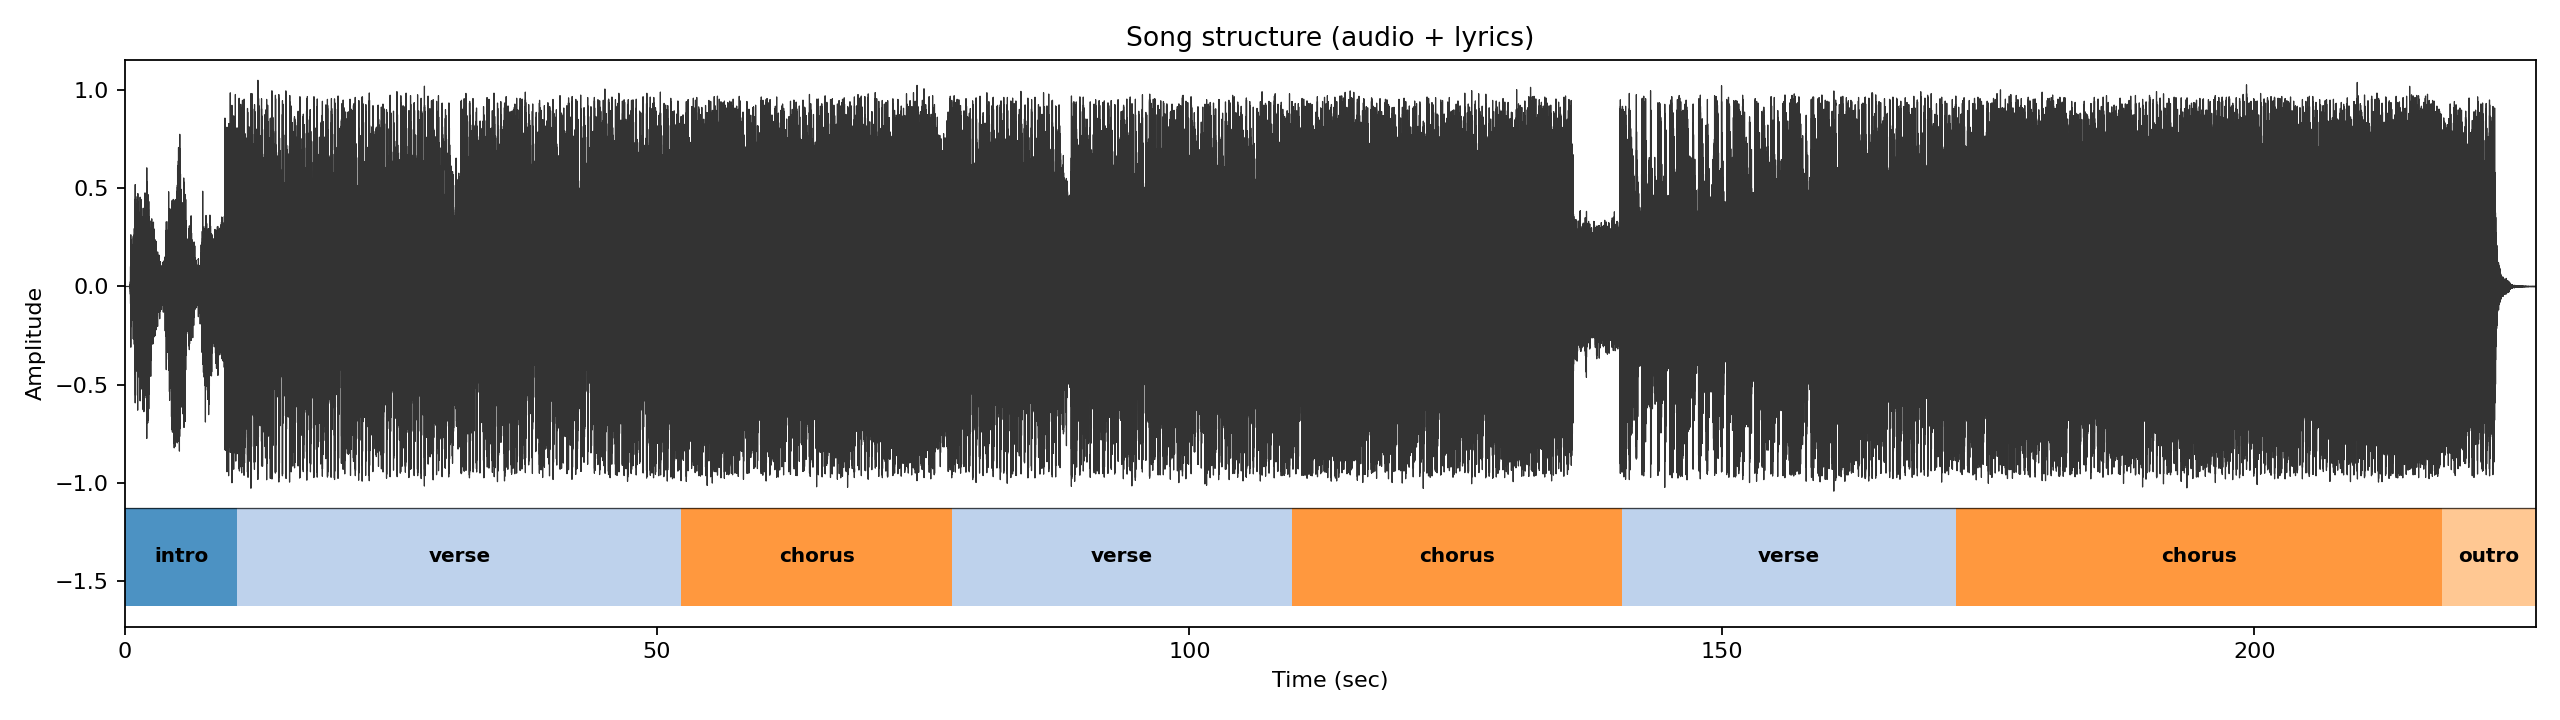
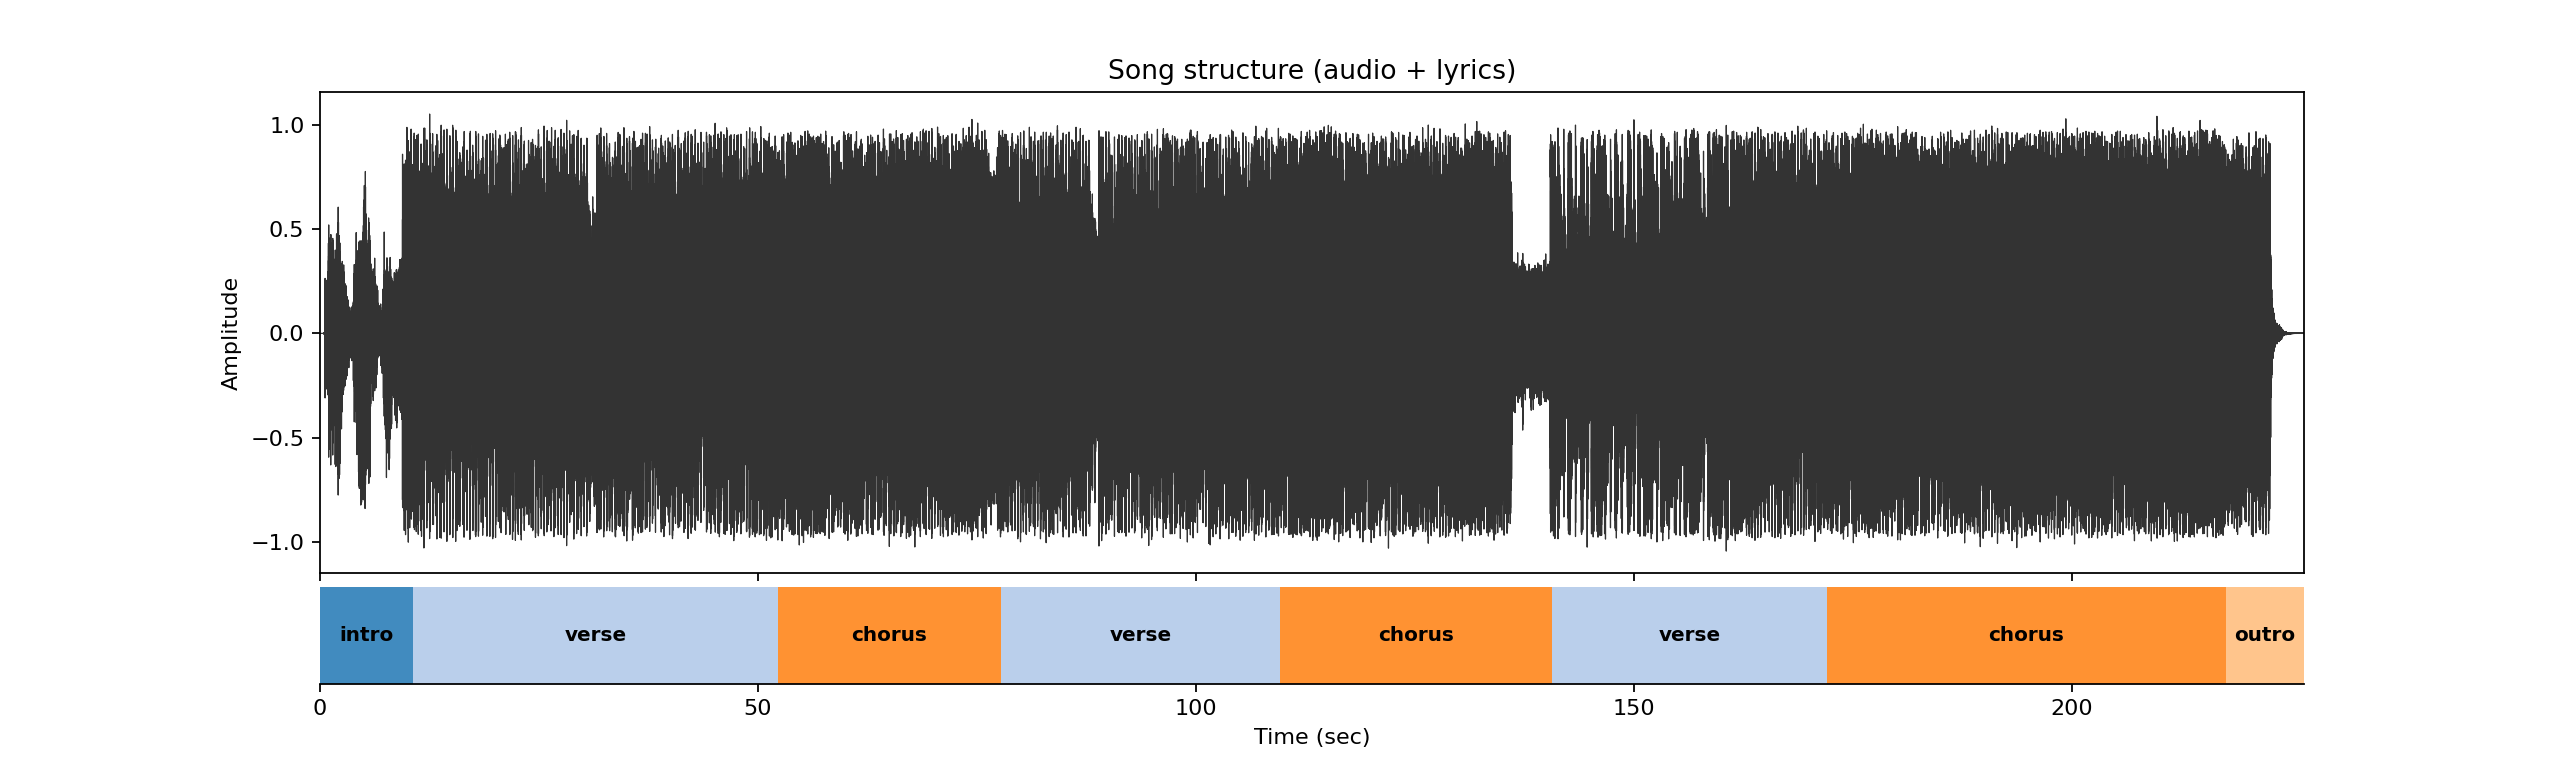
Separate label axis below waveform plot

Changed region(s): [[0.0, 0.0306, 1.0, 0.9778]]

diff --git a/lyrics_structure_pipeline.py b/lyrics_structure_pipeline.py
@@ -659,33 +659,27 @@ def plot_structure(y: np.ndarray, sr: int, segments: list[AudioSegment], output_
     y_min, y_max = float(np.min(y)), float(np.max(y))
     y_range = max(1e-6, y_max - y_min)
 
-    fig, ax = plt.subplots(figsize=(16, 4.5))
-    ax.plot(times, y, color="black", linewidth=0.55, alpha=0.8)
+    fig, (ax_wave, ax_labels) = plt.subplots(
+        2,
+        1,
+        figsize=(16, 4.8),
+        sharex=True,
+        gridspec_kw={"height_ratios": [5, 1], "hspace": 0.05},
+    )
+    ax_wave.plot(times, y, color="black", linewidth=0.55, alpha=0.8)
 
     labels_order = list(dict.fromkeys(seg.label for seg in segments))
     cmap = plt.get_cmap("tab20")
     color_map = {label: cmap(i % 20) for i, label in enumerate(labels_order)}
 
-    # Draw a dedicated colored label band below the waveform.
-    band_gap = 0.04 * y_range
-    band_height = 0.24 * y_range
-    band_top = y_min - band_gap
-    band_bottom = band_top - band_height
-
+    # Dedicated label lane on a separate axis below the waveform.
     for seg in segments:
         color = color_map[seg.label]
-        ax.fill_between(
-            [seg.start, seg.end],
-            [band_bottom, band_bottom],
-            [band_top, band_top],
-            color=color,
-            alpha=0.8,
-            linewidth=0,
-        )
+        ax_labels.axvspan(seg.start, seg.end, color=color, alpha=0.85, linewidth=0)
         mid = (seg.start + seg.end) / 2.0
-        ax.text(
+        ax_labels.text(
             mid,
-            (band_bottom + band_top) / 2.0,
+            0.5,
             seg.label,
             ha="center",
             va="center",
@@ -694,13 +688,22 @@ def plot_structure(y: np.ndarray, sr: int, segments: list[AudioSegment], output_
             color="black",
         )
 
-    ax.axhline(y=band_top, color="black", linewidth=0.6, alpha=0.7)
-    ax.set_title("Song structure (audio + lyrics)")
-    ax.set_xlabel("Time (sec)")
-    ax.set_ylabel("Amplitude")
-    ax.set_xlim(0, duration_sec)
-    ax.set_ylim(band_bottom - 0.05 * y_range, y_max + 0.05 * y_range)
-    fig.tight_layout()
+    ax_wave.set_title("Song structure (audio + lyrics)")
+    ax_wave.set_ylabel("Amplitude")
+    ax_wave.set_xlim(0, duration_sec)
+    ax_wave.set_ylim(y_min - 0.05 * y_range, y_max + 0.05 * y_range)
+    ax_wave.tick_params(labelbottom=False)
+
+    ax_labels.set_ylim(0, 1)
+    ax_labels.set_yticks([])
+    ax_labels.set_ylabel("")
+    ax_labels.set_xlabel("Time (sec)")
+    ax_labels.spines["left"].set_visible(False)
+    ax_labels.spines["right"].set_visible(False)
+    ax_labels.spines["top"].set_visible(False)
+    ax_labels.grid(False)
+
+    fig.subplots_adjust(hspace=0.05)
     fig.savefig(output_png, dpi=160)
     plt.close(fig)
 
